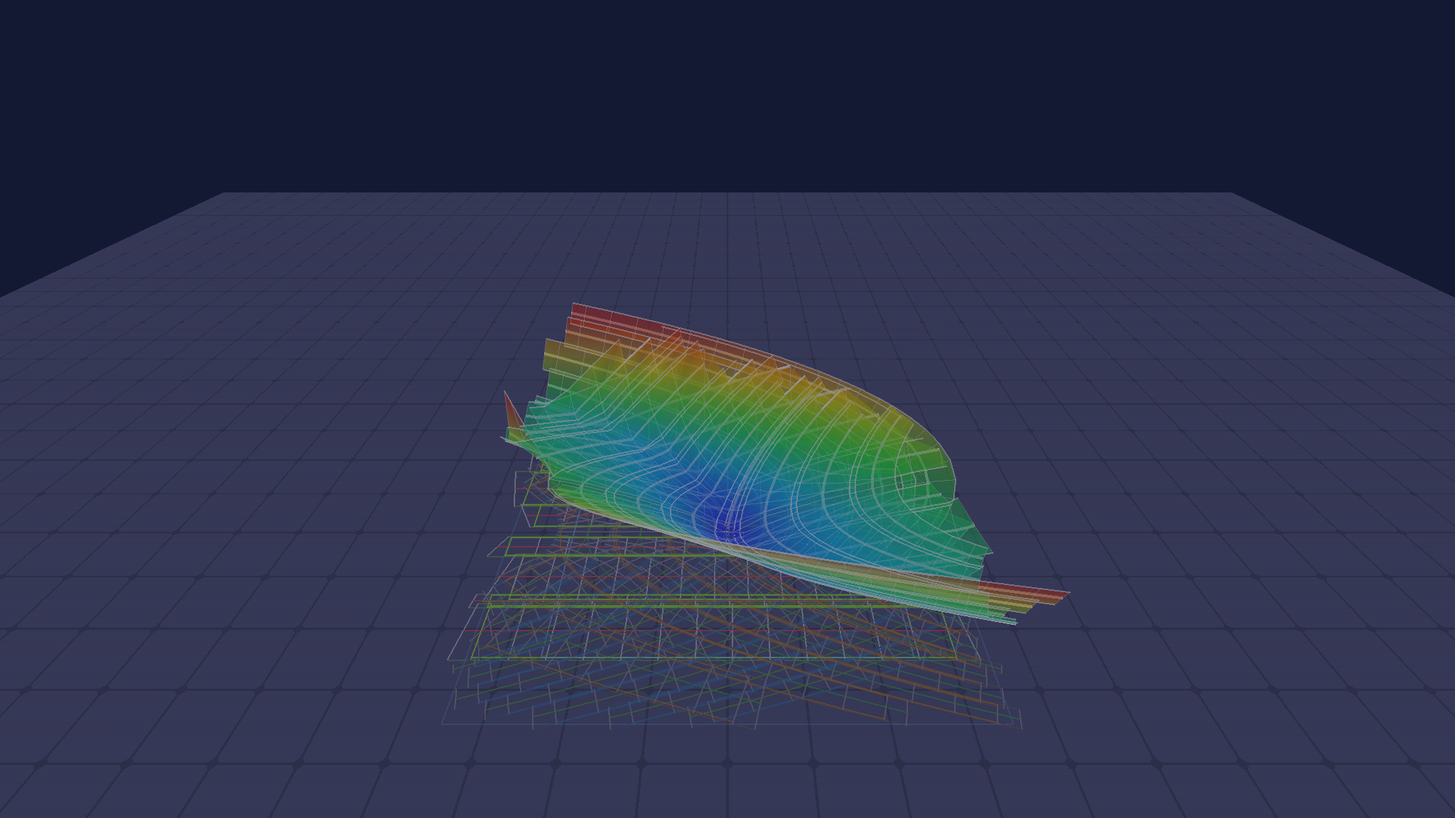
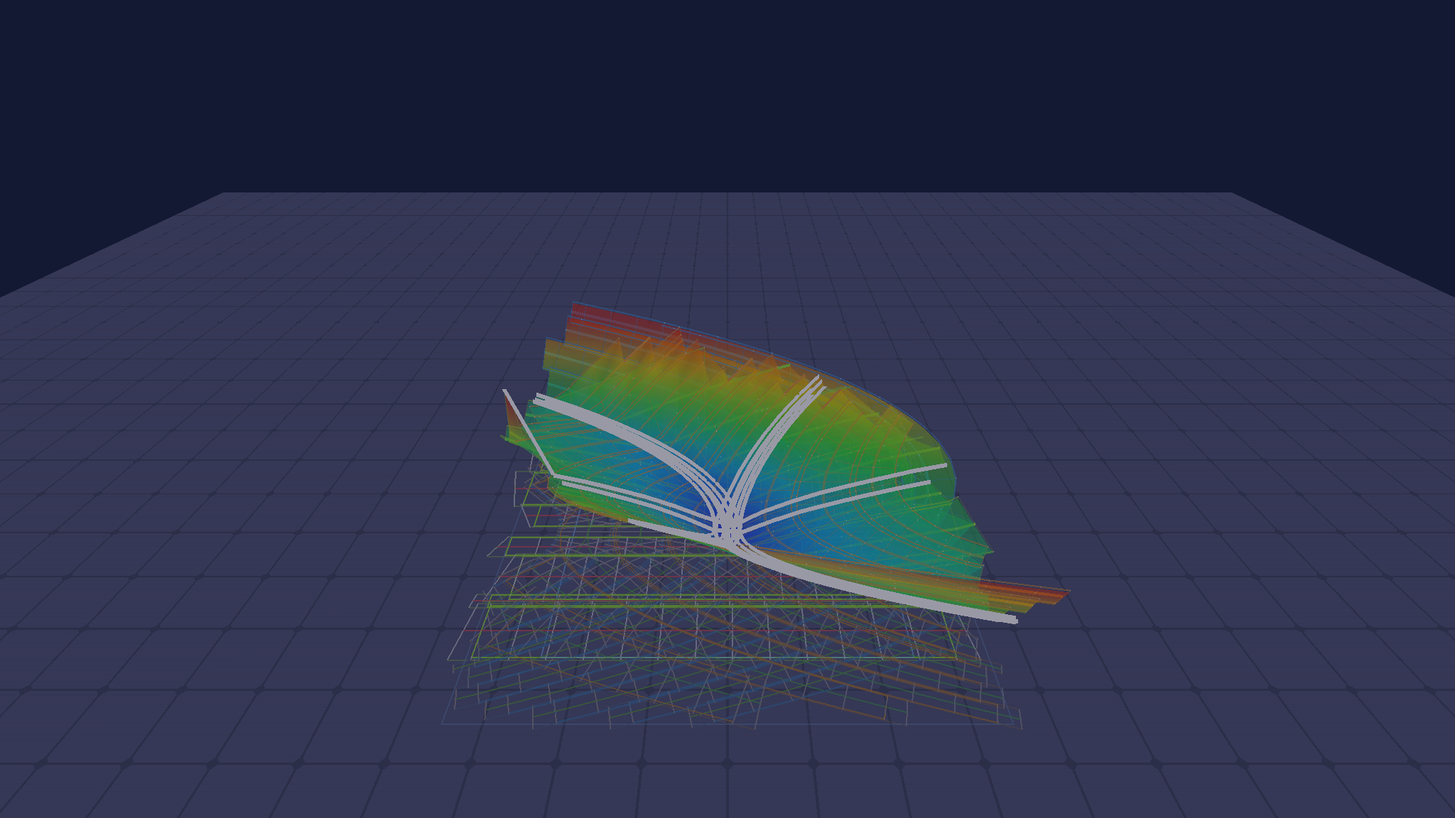
[laptop-v5chain-worker-4]: v8 V-виз — скелет в цвет слоя, белые траектории в цель поверх всего, общий слой V* (клавиша B), подъём скелета VSURF_LIFT
Claude-Session: https://claude.ai/code/session_0125J4RdEjwDP3recZhTuSTU

Changed region(s): [[0.3438, 0.375, 0.75, 0.7812]]

diff --git a/spores_2/v8/src/stepper/vsurf.py b/spores_2/v8/src/stepper/vsurf.py
@@ -1,16 +1,21 @@
-"""Поверхность V (v8, ДИ 2D; слово пользователя 2026-10-12): высота = V·VH, цвет — многоцветный полупрозрачный градиент по V, узлы клеток — точки на поверхности.
-V считает solve8.Graph (E1 вдоль потока, E2 вход в цель, E3 переход между слоями) на ТЕКУЩЕМ атласе (готовые клетки показанных слоёв); ~0.1 с на три слоя.
-Чистый numpy (тестируется без Ursina): solve_layers → build_mesh. Рисует GrowView (одним мешем на слой, как линии).
-V = ∞ (узел не достигает цели в графе): дыра в поверхности (треугольники с такими вершинами не строятся), узел — серая точка на высоте 0."""
+"""Поверхность V (v8, ДИ 2D; слово пользователя 2026-10-12): высота = V·VH, цвет — многоцветный полупрозрачный градиент по V, узлы клеток — точки на поверхности, скелет — рёбра между узлами.
+V считает solve8.Graph (E1 вдоль потока, E2 вход в цель, E3 переход между слоями) на ТЕКУЩЕМ атласе (готовые клетки показанных слоёв); ~0.1–0.9 с на три слоя.
+Чистый numpy (тестируется без Ursina): solve_layers → build_mesh. Рисует GrowView (одним мешем на слой и тип).
+V = ∞ (узел не достигает цели в графе): дыра в поверхности (треугольники с такими вершинами не строятся), узел — серая точка на высоте 0.
+Общий слой V*: win — маска «узел выигрывает» (его V ≤ min по слоям V_u(x узла) + eps, при равенстве — слой с меньшим номером); оставляем только рёбра/треугольники/узлы, все вершины которых выигрывают.
+Столбцы, входящие в цель (goalcols): есть узел внутри круга RHO или конечный solve8.entry_time на шаге столбца (та же логика, что E2 в Graph.prepare)."""
 import os, time
 from types import SimpleNamespace
 import numpy as np
 
 VH = float(os.environ.get('VSURF_H', .35))                 # высота на единицу V (в мировых единицах до зума)
 ALPHA = float(os.environ.get('VSURF_ALPHA', .55))
-LONG_A = float(os.environ.get('VSURF_LONG_ALPHA', .6)); LONG_W = int(os.environ.get('VSURF_LONG_W', 2))        # скелет: боковые линии вдоль траекторий эволюции (узлы столбцов j ≠ центрального)
+LIFT = float(os.environ.get('VSURF_LIFT', .04))            # подъём скелета и узлов над поверхностью (мировые единицы высоты), чтобы линии не тонули в радуге
+LONG_A = float(os.environ.get('VSURF_LONG_ALPHA', .6)); LONG_W = int(os.environ.get('VSURF_LONG_W', 2))        # боковые линии вдоль траекторий эволюции (столбцы j ≠ центрального), цвет слоя
 CENTER_A = float(os.environ.get('VSURF_CENTER_ALPHA', 1.)); CENTER_W = int(os.environ.get('VSURF_CENTER_W', 4))   # центральная линия эволюции клетки (столбец M//2): непрозрачная и жирнее
-CROSS_A = float(os.environ.get('VSURF_CROSS_ALPHA', .4)); CROSS_W = int(os.environ.get('VSURF_CROSS_W', 1))      # поперечные линии (узлы одной строки), прозрачнее продольных
+CROSS_A = float(os.environ.get('VSURF_CROSS_ALPHA', .4)); CROSS_W = int(os.environ.get('VSURF_CROSS_W', 1))      # поперечные линии (узлы одной строки)
+GOAL_A = float(os.environ.get('VSURF_GOAL_ALPHA', 1.)); GOAL_W = int(os.environ.get('VSURF_GOAL_W', 6))          # траектории, входящие в цель: белые, жирнее центральных, поверх всего
+WIN_EPS = float(os.environ.get('VSURF_WIN_EPS', 1e-3))
 BIG = 1e9                                                   # solve8.BIG: V ≥ BIG/2 — «нет пути»
 GRAD = np.array([[0., .20, .25, .95], [.25, .10, .75, .95], [.5, .20, .90, .30], [.75, 1., .85, .10], [1., .95, .20, .15]])     # t, R, G, B: синий → бирюзовый → зелёный → жёлтый → красный
 
@@ -23,18 +28,25 @@ def gradient(t, alpha=ALPHA):
 
 
 def solve_layers(cells_by_u, g=None):
-    """cells_by_u: {u: [cell_dict, ...]} (порядок слоёв — порядок ключей) → ({u: [V (nt, M) на клетку]}, info). V ≥ BIG/2 — нет пути."""
+    """cells_by_u: {u: [cell_dict, ...]} (порядок слоёв — порядок ключей) → ({u: [V (nt, M) на клетку]}, info). V ≥ BIG/2 — нет пути.
+    info: n, t, passes, finite, vmax, layers, wins {u: [bool (nt, M)]} — узел выигрывает у остальных слоёв, goalcols {u: [bool (M,)]} — столбец входит в цель."""
     from ..algo import solve8
     g = g or solve8.load_growN()
     atlas = {u: [SimpleNamespace(G=np.asarray(c['G']), tau=np.asarray(c['tau']), r=np.asarray(c['r']), hb=int(c['hb']), nb=int(c['nb']), nf=int(c['nf'])) for c in cl] for u, cl in cells_by_u.items() if len(cl)}
-    if not atlas: return {}, dict(n=0, t=0., passes=0)
+    if not atlas: return {}, dict(n=0, t=0., passes=0, wins={}, goalcols={})
     t0 = time.perf_counter(); G = solve8.make_graph(g, atlas); G.solve(verbose=False); t = time.perf_counter() - t0; V = G.V; out = {}; off = 0
+    Vl = G.Vlayers(G.P); Vl[np.arange(G.n), G.layer] = np.where(V < BIG / 2, V, np.inf); best = Vl.min(1)                  # свой слой — V узла (не интерполяция); победитель — первый слой в пределах eps от минимума
+    wall = (np.argmax(Vl <= best[:, None] + WIN_EPS, axis=1) == G.layer) & np.isfinite(best); wins = {}; gcols = {}; rho = G.rho
     for u, cl in atlas.items():
-        out[u] = []
-        for c in cl: nt, M = c.G.shape[:2]; out[u].append(V[off:off + nt * M].reshape(nt, M).copy()); off += nt * M
+        out[u] = []; wins[u] = []; gcols[u] = []
+        for c in cl:
+            nt, M = c.G.shape[:2]; out[u].append(V[off:off + nt * M].reshape(nt, M).copy()); wins[u].append(wall[off:off + nt * M].reshape(nt, M).copy()); off += nt * M
+            inn = np.linalg.norm(c.G, axis=-1) <= rho + 1e-12; cost = c.tau[1:] - c.tau[:-1]; m = (~inn[:-1] & (cost > 1e-12)).ravel(); te = np.full(len(m), np.inf)
+            if m.any(): te[m] = solve8.entry_time(c.G[:-1].reshape(-1, 2)[m], u, cost.ravel()[m], rho)
+            gcols[u].append(inn.any(0) | np.isfinite(te.reshape(nt - 1, M)).any(0))
     assert off == G.n
     fin = V < BIG / 2
-    return out, dict(n=int(G.n), t=t, passes=int(G.passes), finite=float(fin.mean()), vmax=float(V[fin].max()) if fin.any() else 0., layers={u: len(c) for u, c in atlas.items()})
+    return out, dict(n=int(G.n), t=t, passes=int(G.passes), finite=float(fin.mean()), vmax=float(V[fin].max()) if fin.any() else 0., layers={u: len(c) for u, c in atlas.items()}, wins=wins, goalcols=gcols)
 
 
 def vscale(Vs_u, q=99.):
@@ -42,19 +54,25 @@ def vscale(Vs_u, q=99.):
     a = np.concatenate([v[v < BIG / 2].ravel() for vs in Vs_u.values() for v in vs] or [np.zeros(0)]); return float(np.percentile(a, q)) if len(a) else 1.
 
 
-def build_mesh(cells, Vs, ax=(0, 1), vmax=1., h=VH, alpha=ALPHA, y0=.01):
-    """клетки слоя + их V (nt, M) → dict: verts (K, 3), colors (K, 4), tris (T,) индексы, pts (P, 3), pcol (P, 4) — узлы на поверхности, inf (Q, 3) — узлы без V (серые, y = y0), long (2E, 3) — рёбра вдоль потока (k,j)–(k+1,j), j ≠ M//2, парами вершин, center (2E', 3) — то же для центрального столбца j = M//2, cross (2F, 3) — рёбра поперёк (k,j)–(k,j+1); ребро с V=∞ нет.
-    Координаты Ursina: x = ось ax[0], y = V·h (вверх), z = ось ax[1]."""
-    VV, CC, TT, PP, PC, II, LG, CR, CE = [], [], [], [], [], [], [], [], []; n0 = 0
-    for c, V in zip(cells, Vs):
-        G = np.asarray(c['G']); nt, M = V.shape; fin = V < BIG / 2; P = np.empty((nt, M, 3)); P[..., 0] = G[..., ax[0]]; P[..., 2] = G[..., ax[1]]; P[..., 1] = np.where(fin, V * h, y0)
+def build_mesh(cells, Vs, ax=(0, 1), vmax=1., h=VH, alpha=ALPHA, y0=.01, win=None, goalcols=None, lift=LIFT):
+    """клетки слоя + их V (nt, M) → dict: verts (K, 3), colors (K, 4), tris (T,) индексы, pts (P, 3), pcol (P, 4) — узлы на поверхности, inf (Q, 3) — узлы без V (серые, y = y0),
+    long (2E, 3) — рёбра вдоль потока (k,j)–(k+1,j), j ≠ M//2, парами вершин, center (2E', 3) — то же для центрального столбца j = M//2, cross (2F, 3) — рёбра поперёк (k,j)–(k,j+1),
+    goal (2E'', 3) — рёбра столбцов, входящих в цель (goalcols[i] — bool (M,)); ребро с V=∞ нет. win — bool (nt, M) на клетку: оставить только выигрывающие узлы (общий слой V*; серых ∞-узлов тогда нет).
+    Координаты Ursina: x = ось ax[0], y = V·h (вверх), z = ось ax[1]; скелет и узлы — на lift выше."""
+    VV, CC, TT, PP, PC, II, LG, CR, CE, GL = [], [], [], [], [], [], [], [], [], []; n0 = 0
+    for i, (c, V) in enumerate(zip(cells, Vs)):
+        G = np.asarray(c['G']); nt, M = V.shape; fin = V < BIG / 2
+        if win is not None: fin = fin & win[i]
+        P = np.empty((nt, M, 3)); P[..., 0] = G[..., ax[0]]; P[..., 2] = G[..., ax[1]]; P[..., 1] = np.where(fin, V * h, y0)
         col = gradient(np.where(fin, V, 0.) / max(vmax, 1e-9), alpha); col[~fin, 3] = 0.
         ids = n0 + np.arange(nt * M).reshape(nt, M); a, b, c_, d = ids[:-1, :-1], ids[:-1, 1:], ids[1:, :-1], ids[1:, 1:]; fa, fb, fc, fd = fin[:-1, :-1], fin[:-1, 1:], fin[1:, :-1], fin[1:, 1:]
         t1 = np.stack([a, b, c_], -1)[fa & fb & fc]; t2 = np.stack([b, d, c_], -1)[fb & fd & fc]; TT.append(np.concatenate([t1, t2]).ravel())
         VV.append(P.reshape(-1, 3)); CC.append(col.reshape(-1, 4)); n0 += nt * M
-        Pl = P + [0., .004, 0.]; okl = fin[:-1] & fin[1:]; okc = fin[:, :-1] & fin[:, 1:]                       # скелет на поверхности: ребро с вершиной V=∞ не рисуется
-        jc = M // 2; okc0 = okl.copy(); okc0[:, [j for j in range(M) if j != jc]] = False; okl[:, jc] = False; CE.append(np.stack([Pl[:-1][okc0], Pl[1:][okc0]], 1).reshape(-1, 3))
-        LG.append(np.stack([Pl[:-1][okl], Pl[1:][okl]], 1).reshape(-1, 3)); CR.append(np.stack([Pl[:, :-1][okc], Pl[:, 1:][okc]], 1).reshape(-1, 3))
-        PP.append(P[fin] + [0., .004, 0.]); PC.append(np.broadcast_to([.96, .96, .96, .95], (int(fin.sum()), 4))); II.append(P[~fin])
+        Pl = P + [0., lift, 0.]; okl = fin[:-1] & fin[1:]; okc = fin[:, :-1] & fin[:, 1:]                                 # скелет на поверхности (+lift): ребро с вершиной V=∞ не рисуется
+        cmask = np.zeros(M, bool); cmask[M // 2] = True; gm = np.zeros(M, bool) if goalcols is None else np.asarray(goalcols[i], bool)
+        e2 = lambda ok: np.stack([Pl[:-1][ok], Pl[1:][ok]], 1).reshape(-1, 3)
+        GL.append(e2(okl & gm[None, :])); CE.append(e2(okl & cmask[None, :])); LG.append(e2(okl & ~cmask[None, :])); CR.append(np.stack([Pl[:, :-1][okc], Pl[:, 1:][okc]], 1).reshape(-1, 3))
+        PP.append(P[fin] + [0., lift, 0.]); PC.append(np.broadcast_to([.96, .96, .96, .95], (int(fin.sum()), 4)))
+        if win is None: II.append(P[~fin])
     z3, z4 = np.zeros((0, 3)), np.zeros((0, 4)); cat = lambda L, z: np.concatenate(L) if L else z
-    return dict(verts=cat(VV, z3), colors=cat(CC, z4), tris=cat(TT, np.zeros(0, int)).astype(np.uint32), pts=cat(PP, z3), pcol=cat(PC, z4), inf=cat(II, z3), long=cat(LG, z3), center=cat(CE, z3), cross=cat(CR, z3))
+    return dict(verts=cat(VV, z3), colors=cat(CC, z4), tris=cat(TT, np.zeros(0, int)).astype(np.uint32), pts=cat(PP, z3), pcol=cat(PC, z4), inf=cat(II, z3), long=cat(LG, z3), center=cat(CE, z3), cross=cat(CR, z3), goal=cat(GL, z3))

diff --git a/spores_2/v8/src/stepper/growview.py b/spores_2/v8/src/stepper/growview.py
@@ -140,12 +140,13 @@ def _make_batch():
         """слой: один GeomNode; вершины в реальных координатах, a и b — масштаб/позиция самого узла (перестройка меша только при смене снимка)"""
         def __init__(self):
             super().__init__(); self._gn = None; self.col = (1., 1., 1., 1.); self.real_position = np.zeros(3); self.real_scale = np.ones(3)
-        def set_geometry(self, V, idx=None, kind='lines', thick=None, colors=None, depth_write=True):
+        def set_geometry(self, V, idx=None, kind='lines', thick=None, colors=None, depth_write=True, on_top=False):
             """colors — (n, 4) цвета вершин (иначе один цвет слоя); depth_write=False — полупрозрачная поверхность не закрывает линии за ней"""
             if self._gn is not None: self._gn.remove_node(); self._gn = None
             if len(V) == 0: return
             self._gn = self.attach_new_node(_geom_node(V, kind, idx, self.col if colors is None else colors)); self._gn.set_transparency(TransparencyAttrib.M_alpha)
             if not depth_write: self._gn.set_depth_write(False)
+            if on_top: self._gn.set_depth_test(False); self._gn.set_bin('fixed', 60)                  # поверх всего (белые траектории, входящие в цель)
             if kind != 'tris': self._gn.set_render_mode_thickness(thick or 2)
             else: self._gn.set_two_sided(True)
             self._gn.set_depth_offset(1)                                   # поверх пола (y = 0), без z-fighting
@@ -167,7 +168,7 @@ class GrowView:
            'segs_field': (.50, .75, 1.0, .6), 'segs_growlim': (.50, .75, 1.0, .25)}   # граница поля (посев) и граница роста (XLV+GM): бледно-голубые
 
     def __init__(s, zoom_manager, ax=(0, 1), halo=HALO, spore_manager=None):
-        s.sm = spore_manager; s._pts = {}; s._built_size = None; s.vis = [True] * 8; s.skel = 'normal'; s.zm = zoom_manager; s.ax = ax; s.halo = halo; s.layers = {}; s.last = None; s.times = TimeTable(); s.snap = None; s.vmode = False; s._vsig = None; s._vres = None; s.vinfo = ''
+        s.sm = spore_manager; s._pts = {}; s._built_size = None; s.vis = [True] * 8; s.skel = 'normal'; s.zm = zoom_manager; s.ax = ax; s.halo = halo; s.layers = {}; s.last = None; s.times = TimeTable(); s.snap = None; s.vmode = False; s.cmode = False; s._vsig = None; s._vres = None; s.vinfo = ''
 
     TINT = ('points_done', 'points_cur', 'segs_rows_done', 'segs_center_done', 'segs_core_done', 'segs_halo_done', 'segs_rows_cur', 'segs_center_cur', 'segs_core_cur', 'segs_halo_cur')
 
@@ -242,12 +243,18 @@ class GrowView:
         if snap is not None and t0 is not None:
             s.times.add_draw(snap.get('phase', '?'), time.perf_counter() - t0); s.draw_hist = getattr(s, 'draw_hist', {}); s.draw_hist[id(snap)] = (dict(s.times.draw), dict(s.times.n))
 
-    # ---- поверхность V (src/stepper/vsurf.py): по клавише V; один меш на слой (+ узлы и «дыры»), слои 7/8/9 как у линий ----
+    # ---- поверхность V (src/stepper/vsurf.py): V — по слоям (7/8/9), B — общий слой V* (победители по слоям); один меш на слой и тип ----
     def toggle_vsurf(s):
-        s.vmode = not s.vmode; print('[vsurf] %s' % ('on' if s.vmode else 'off'), flush=True)
+        s.vmode = not s.vmode; print('[vsurf] per-layer surfaces %s' % ('on' if s.vmode else 'off'), flush=True)
         if s.snap is not None: s.draw(s.snap)
 
-    def vlabel(s): return ('V surface: ' + (s.vinfo or 'on')) if s.vmode else ''
+    def toggle_common(s):
+        s.cmode = not s.cmode; print('[vsurf] common V* layer %s' % ('on' if s.cmode else 'off'), flush=True)
+        if s.snap is not None: s.draw(s.snap)
+
+    def vlabel(s):
+        on = [n for n, f in (('V per layer', s.vmode), ('V* common', s.cmode)) if f]
+        return ('%s: %s' % (' + '.join(on), s.vinfo or 'on')) if on else ''
 
     def _vcells(s, snap):
         """{u: [cell_dict]} — готовые клетки показанных слоёв (до текущего включительно); скрытые 7/8/9 слои в расчёте участвуют (E3 — переходы между слоями)"""
@@ -258,36 +265,37 @@ class GrowView:
             if cl: out[u] = cl
         return out
 
+    VNAMES = ('surf', 'pts', 'inf', 'long', 'cross', 'cen', 'goal')
+
     def _draw_vsurf(s, snap):
         from . import vsurf as VS
-        names = lambda k: ('vsurf@%d' % k, 'vpts@%d' % k, 'vinf@%d' % k, 'vlong@%d' % k, 'vcross@%d' % k, 'vcen@%d' % k); z3 = np.zeros((0, 3))
-        for k in range(max(getattr(s, '_nk', 0), 3)):
-            if not (s.vmode and snap is not None):
-                for n in names(k):
-                    if n in s.layers: s.layers[n].set_geometry(z3)
-        if not (s.vmode and snap is not None): s._vsig = None; return
+        z3 = np.zeros((0, 3)); on = snap is not None and (s.vmode or s.cmode)
+        def clear(pre, ks):
+            for k in ks:
+                for n in s.VNAMES:
+                    if pre + n + '@%d' % k in s.layers: s.layers[pre + n + '@%d' % k].set_geometry(z3)
+        ks = range(max(getattr(s, '_nk', 0), 3))
+        if not on: clear('v', ks); clear('c', ks); s._vsig = None; return
         cl = s._vcells(snap); sig = tuple((u, len(c), id(c[0]['G']), id(c[-1]['G'])) for u, c in cl.items())
         if sig != s._vsig:
             s._vsig = sig; s._vres = None
             try:
-                t0 = time.perf_counter(); Vs, info = VS.solve_layers(cl); s._vres = (Vs, VS.vscale(Vs), cl)
-                s.vinfo = 'on, %d cells in %d layers, %d nodes (V finite %.0f%%), V max %.2f, solve8 %.2f s' % (sum(len(c) for c in cl.values()), len(cl), info['n'], 100 * info.get('finite', 0.), info.get('vmax', 0.), info['t'])
+                t0 = time.perf_counter(); Vs, info = VS.solve_layers(cl); s._vres = (Vs, VS.vscale(Vs), cl, info)
+                s.vinfo = '%d cells in %d layers, %d nodes (V finite %.0f%%), V max %.2f, solve8 %.2f s' % (sum(len(c) for c in cl.values()), len(cl), info['n'], 100 * info.get('finite', 0.), info.get('vmax', 0.), info['t'])
                 print('[vsurf] ' + s.vinfo + ' (total %.0f ms)' % (1e3 * (time.perf_counter() - t0)), flush=True)
-            except Exception as e: s.vinfo = 'solve failed: %r' % (e,); print('[vsurf] ' + s.vinfo, flush=True); s.vmode = False
-        if s._vres is None: return
-        Vs, vmax, cl = s._vres; layers = snap.get('layers') or (); R = .5 * SPORE_SCALE * (s.sm.size if s.sm is not None else 1.)
-        for k, u in enumerate(layers):
-            n_s, n_p, n_i, n_l, n_c, n_e = names(k)
-            if u not in cl or not s.vis[k]:
-                for n in names(k):
-                    if n in s.layers: s.layers[n].set_geometry(z3)
-                continue
-            m = VS.build_mesh(cl[u], Vs[u], s.ax, vmax); w = (1., 1., 1., 1.)
-            s._layer(n_s, w).set_geometry(m['verts'], m['tris'], kind='tris', colors=m['colors'], depth_write=False)
-            Dp, ip = _discs(m['pts'], R); s._layer(n_p, w).set_geometry(Dp, ip, kind='tris', colors=np.repeat(m['pcol'], 17, axis=0))
-            for nm, arr, a_, th in ((n_l, m['long'], VS.LONG_A, VS.LONG_W), (n_c, m['cross'], VS.CROSS_A, VS.CROSS_W), (n_e, m['center'], VS.CENTER_A, VS.CENTER_W)):                                  # скелет: боковые продольные, поперечные, центральная линия эволюции (непрозрачная, жирнее)
-                s._layer(nm, w).set_geometry(arr, kind='lines', thick=th, colors=np.tile((.97, .97, .97, a_), (len(arr), 1)), depth_write=False)
-            Di, ii = _discs(m['inf'], R); s._layer(n_i, w).set_geometry(Di, ii, kind='tris', colors=np.tile((.55, .55, .58, .9), (len(Di), 1)))
+            except Exception as e: s.vinfo = 'solve failed: %r' % (e,); print('[vsurf] ' + s.vinfo, flush=True); s.vmode = s.cmode = False
+        if s._vres is None: clear('v', ks); clear('c', ks); return
+        Vs, vmax, cl, info = s._vres; layers = snap.get('layers') or (); R = .5 * SPORE_SCALE * (s.sm.size if s.sm is not None else 1.)
+        for pre, flag in (('v', s.vmode), ('c', s.cmode)):                                                        # v — отдельные слои (видимость 7/8/9), c — общий слой V*: победители, видимость слоя тоже по 7/8/9
+            for k, u in enumerate(layers):
+                if not flag or u not in cl or not s.vis[k]: clear(pre, [k]); continue
+                m = VS.build_mesh(cl[u], Vs[u], s.ax, vmax, win=info['wins'][u] if pre == 'c' else None, goalcols=info['goalcols'][u]); w = (1., 1., 1., 1.); nm = lambda t: pre + t + '@%d' % k
+                lc = s.tinted(s.COL['segs_core_done'], k)[:3]                                                      # скелет — в цвет группы слоя (как контур ядра клеток слоя)
+                s._layer(nm('surf'), w).set_geometry(m['verts'], m['tris'], kind='tris', colors=m['colors'], depth_write=False)
+                Dp, ip = _discs(m['pts'], R); s._layer(nm('pts'), w).set_geometry(Dp, ip, kind='tris', colors=np.repeat(m['pcol'], 17, axis=0))
+                for t, a_, th, col, top in (('long', VS.LONG_A, VS.LONG_W, lc, False), ('cross', VS.CROSS_A, VS.CROSS_W, lc, False), ('cen', VS.CENTER_A, VS.CENTER_W, lc, False), ('goal', VS.GOAL_A, VS.GOAL_W, (1., 1., 1.), True)):
+                    arr = m['center' if t == 'cen' else t]; s._layer(nm(t), w).set_geometry(arr, kind='lines', thick=th, colors=np.tile((*col, a_), (len(arr), 1)), depth_write=False, on_top=top)       # goal — белые, поверх всего
+                Di, ii = _discs(m['inf'], R); s._layer(nm('inf'), w).set_geometry(Di, ii, kind='tris', colors=np.tile((.55, .55, .58, .9), (len(Di), 1)))
 
     def _box(s, extra):
         """граница поля ±(XLV + extra) по показанным осям — замкнутая ломаная (5, 3); для периодических осей (XLV = 0) — не рисуется стороной"""

diff --git a/spores_2/v8/tests/test_vsurf.py b/spores_2/v8/tests/test_vsurf.py
@@ -58,3 +58,20 @@ def test_skeleton_edges():
         for V in Vs[u]: f = V < VS.BIG / 2; e = f[:-1] & f[1:]; ncen += int(e[:, V.shape[1] // 2].sum()); nl += int(e.sum()) - int(e[:, V.shape[1] // 2].sum()); nc += int((f[:, :-1] & f[:, 1:]).sum())
         assert len(m['long']) == 2 * nl and len(m['cross']) == 2 * nc and len(m['center']) == 2 * ncen and nl > 0 and nc > 0 and ncen > 0
         pts = {tuple(np.round(p, 6)) for p in m['pts']}; assert all(tuple(np.round(p, 6)) in pts for p in m['long'][:200]) and all(tuple(np.round(p, 6)) in pts for p in m['cross'][:200]) and all(tuple(np.round(p, 6)) in pts for p in m['center'][:200])
+
+
+def test_common_layer_and_goal_columns():
+    """общий слой V*: у каждого узла ≤1 победитель по слоям (в разных слоях узлы разные — проверяем долю), узлы с V=∞ не побеждают; столбцы, входящие в цель, есть в каждом слое; рёбра goal лежат на конечных узлах"""
+    A = _atlas(); Vs, info = VS.solve_layers(A); vmax = VS.vscale(Vs); nw = nn = 0; ng = 0
+    for u, cl in A.items():
+        assert len(info['wins'][u]) == len(cl) and len(info['goalcols'][u]) == len(cl)
+        for V, w in zip(Vs[u], info['wins'][u]): assert not (w & (V >= VS.BIG / 2)).any(); nw += int(w.sum()); nn += w.size
+        m = VS.build_mesh(cl, Vs[u], vmax=vmax, win=info['wins'][u], goalcols=info['goalcols'][u]); mf = VS.build_mesh(cl, Vs[u], vmax=vmax, goalcols=info['goalcols'][u])
+        assert len(m['pts']) == sum(int(w.sum()) for w in info['wins'][u]) and len(m['pts']) <= len(mf['pts']) and len(m['inf']) == 0 and len(m['tris']) <= len(mf['tris'])
+        ng += len(mf['goal']); assert len(mf['goal']) > 0 and len(m['goal']) <= len(mf['goal'])
+    assert 0 < nw < nn          # общий слой — часть узлов (оба слоя что-то выигрывают, но не всё)
+
+
+def test_lift():
+    A = _atlas(); Vs, _ = VS.solve_layers(A); u = next(iter(A)); m = VS.build_mesh(A[u], Vs[u], vmax=1., lift=.05); m0 = VS.build_mesh(A[u], Vs[u], vmax=1., lift=0.)
+    assert np.allclose(m['pts'][:, 1] - m0['pts'][:, 1], .05) and np.allclose(m['long'][:, 1] - m0['long'][:, 1], .05)

diff --git a/spores_2/v8/main.py b/spores_2/v8/main.py
@@ -13,7 +13,7 @@ Controls:
 - F11: fullscreen mode
 - U: toggle frame visibility
 - H: debug info
-- V: V surface (solve8) on/off
+- V: V surface (solve8) on/off; B: common V* layer on/off
 """
 
 import sys
@@ -188,7 +188,7 @@ def _caption():
     h = getattr(stepper, 'hist_info', None)
     sn = stepper.snapshot or {}
     lay = ('   layer %d/%d  show[%s]' % (sn['layer_k'] + 1, sn['layers_n'], ''.join(('+' if growview.vis[i] else '-') for i in range(sn['layers_n'])))) if sn.get('layers_n') else ''
-    return growview.caption() + lay + (('   step: %s' % stepper.depth_name) if hasattr(stepper, 'depth_name') else '') + '   ' + growview.skeleton_label() + (('   ' + growview.vlabel()) if growview.vmode else '') + (('   [history %d/%d]' % h) if h else '')
+    return growview.caption() + lay + (('   step: %s' % stepper.depth_name) if hasattr(stepper, 'depth_name') else '') + '   ' + growview.skeleton_label() + (('   ' + growview.vlabel()) if growview.vlabel() else '') + (('   [history %d/%d]' % h) if h else '')
 
 def _restart():
     """X: drop everything built so far (and a hand-placed seed) and start over with the algorithm's own seeds (from the goal)."""
@@ -222,6 +222,7 @@ input_manager.bind('g', _seed_here, description='seed at look point')
 for _i, _key in enumerate('789'): input_manager.bind(_key, lambda i=_i: growview.toggle_layer(i), description='show/hide layer %d' % (_i + 1))
 input_manager.bind('k', growview.toggle_skeleton, description='skeleton: normal / time')
 input_manager.bind('v', growview.toggle_vsurf, description='V surface (solve8 on the current atlas): height and colour = V; 7/8/9 layers')
+input_manager.bind('b', growview.toggle_common, description='common V* layer (min over layers; skeleton in the winner layer colour)')
 def _toggle_floor(): floor.visible_self = not floor.visible_self
 input_manager.bind('f', _toggle_floor, description='toggle floor')
 

diff --git a/spores_2/v8/tests/smoke_vsurf_window.py b/spores_2/v8/tests/smoke_vsurf_window.py
@@ -12,4 +12,4 @@ M.stepper.key('C'); M.growview.draw(M.stepper.snapshot); shot('vsurf_smoke_off.p
 M.growview.toggle_vsurf(); print(M.growview.vlabel()); shot('vsurf_smoke_on.png')
 M.growview.toggle_layer(1); shot('vsurf_smoke_layer2_hidden.png'); M.growview.toggle_layer(1)
 P.position = (0.5, 3.2, -3.6); P.camera_pivot.rotation_x = 40; shot('vsurf_smoke_close.png')
-M.growview.toggle_vsurf(); print('off ok', M.growview.vlabel() == ''); print('SMOKE OK')
+M.growview.toggle_vsurf(); M.growview.toggle_common(); print(M.growview.vlabel()); shot('vsurf_smoke_common.png'); P.position = (0, 6, -9); P.camera_pivot.rotation_x = 32; M.growview.toggle_vsurf(); shot('vsurf_smoke_both.png'); M.growview.toggle_vsurf(); M.growview.toggle_common(); print('off ok', M.growview.vlabel() == ''); print('SMOKE OK')

diff --git a/spores_2/v8/sessions_task_log/session_laptop-v5chain-worker-4.md b/spores_2/v8/sessions_task_log/session_laptop-v5chain-worker-4.md
@@ -7,3 +7,4 @@
 - 12:21:22 · no data · закончил: задача 2 V-поверхность (клавиша v); жду добра
 - 12:26:39 · no data · начал: задача 3 — скелет V-поверхности, розовый ромб
 - 12:28:00 · no data · закончил: задача 3 скелет V; жду добра
+- 12:32:20 · no data · закончил: правки скелета V; жду добра
